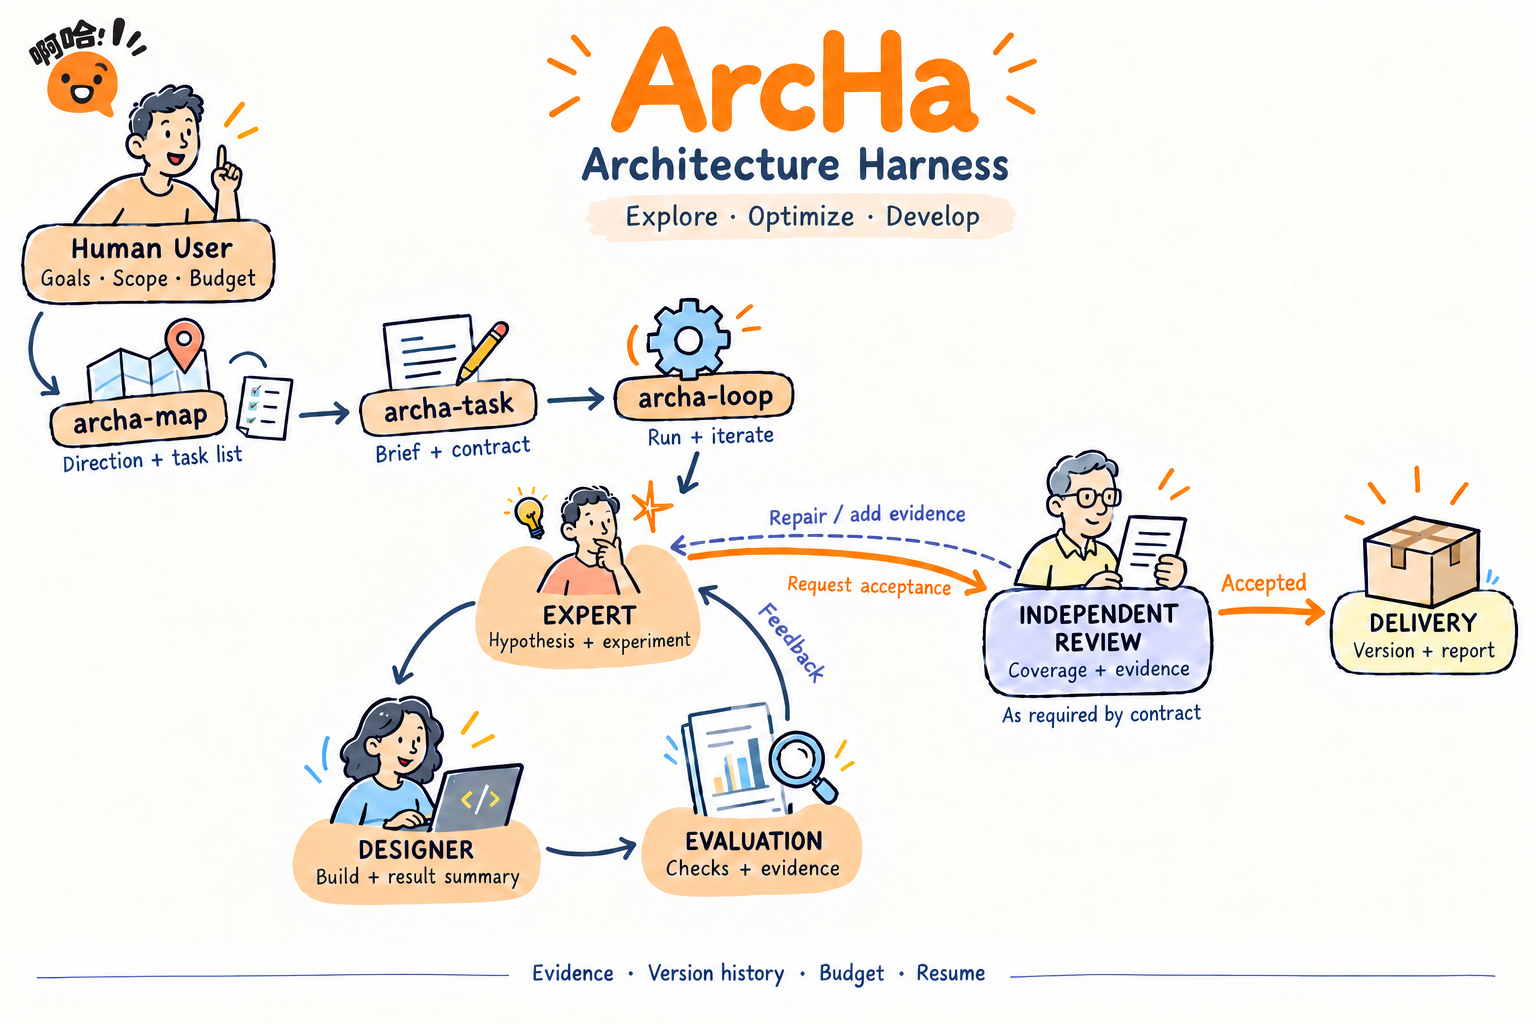
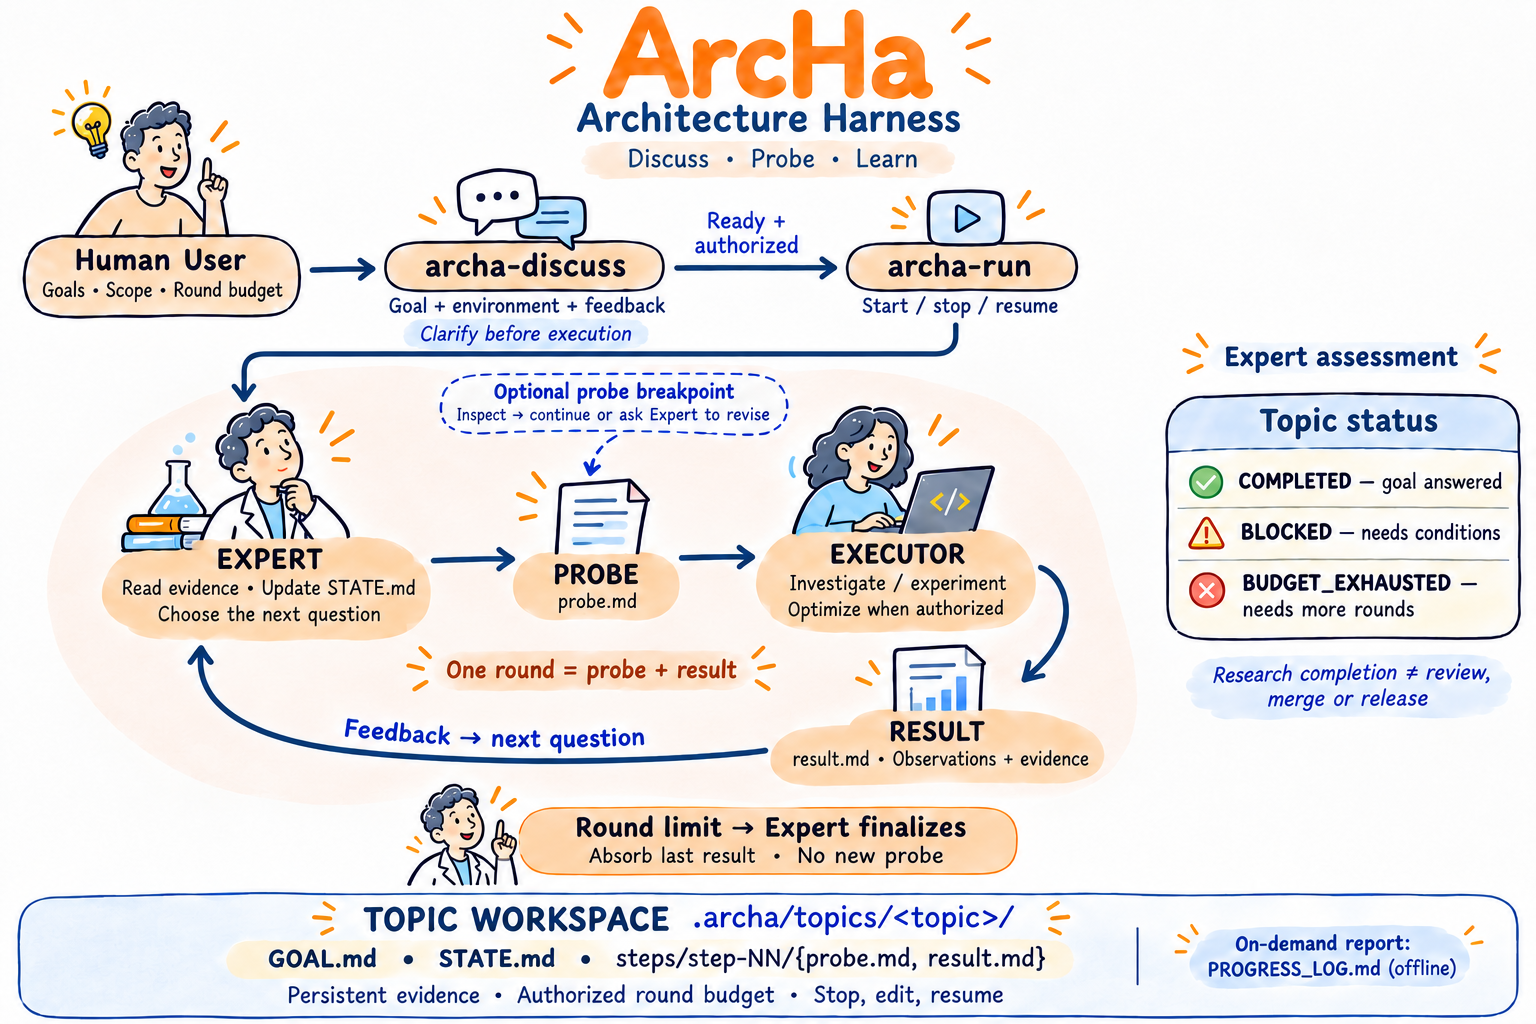
docs: align framework illustration with topic workflow

diff --git a/README.md b/README.md
@@ -4,9 +4,9 @@
 
 ArcHa 用持续专题组织研究：人定义目标，Expert 消化证据并选择下一问，Executor 核查资料或完成最小实验。目标、当前认知状态与逐轮探针/结果保存在目标工程的 `.archa/topics/<topic>/`，停止后可以修改并继续。
 
-![ArcHa 原版框架示意图：用户定义目标，专家提出假设，通过执行与证据反馈持续迭代](docs/assets/archa-framework.png)
+![ArcHa 专题流程：archa-discuss 明确目标与准备，archa-run 驱动 Expert 提出探针、Executor 执行并反馈结果](docs/assets/archa-framework.png)
 
-*原版框架插画。图中的 `archa-map`、`archa-task`、`archa-loop` 和独立审核交付链属于旧版设计；当前采用下述 `archa-discuss` / `archa-run` 两个入口与 Expert / Executor 专题循环，具体流程见[引擎说明](opc/README.md)。*
+*专题工作流程。准备就绪且已有授权后进入探针循环；Expert 消化结果、更新认知并决定下一问，Executor 完成调查、实验或授权优化。可选探针断点支持检查与反馈重拟；达到轮数上限后只做收尾消化。目标、认知与逐轮材料保存在专题工作区，研究完成不代表独立审核、合并或发布。恢复时按已有材料继续待执行步骤，具体协议见[引擎说明](opc/README.md)。*
 
 Python 发行包为 `archa-opc`，命令为 `opc`，要求 Python 3.10+。Worker 通过命令数组接入外部 CLI 或脚本；默认 Codex 配置需要本机已有可用的 Codex CLI 和授权。
 
